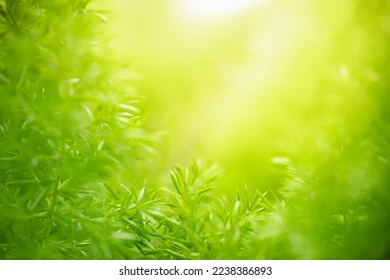
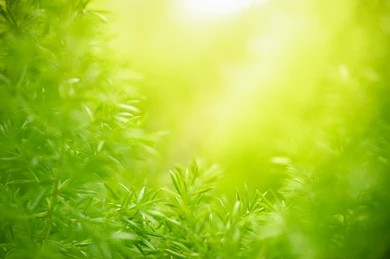
Improve mobile responsive UI

diff --git a/static/style.css b/static/style.css
@@ -1,56 +1,162 @@
+/* Google Font */
+@import url('https://fonts.googleapis.com/css2?family=Poppins:wght@300;400;500;600;700&display=swap');
+
+*{
+    margin:0;
+    padding:0;
+    box-sizing:border-box;
+    font-family:'Poppins',sans-serif;
+}
+
 body{
-    background:url("/static/farm.jpg");
+    min-height:100vh;
+    display:flex;
+    justify-content:center;
+    align-items:center;
+    padding:20px;
+
+    /* Background */
+    background:url("/static/farm.jpg") center center no-repeat;
     background-size:cover;
+    background-attachment:fixed;
+}
+
+/* Dark overlay */
+body::before{
+    content:"";
+    position:fixed;
+    inset:0;
+    background:rgba(0,0,0,0.18);
+    z-index:-1;
 }
 
 .container{
-    width:500px;
-    margin:40px auto;
-    background:white;
-    padding:30px;
-    border-radius:12px;
-    box-shadow:0 0 20px rgba(0,0,0,.2);
+    width:100%;
+    max-width:430px;
+    background:rgba(255,255,255,0.96);
+    padding:28px;
+    border-radius:18px;
+    box-shadow:0 12px 35px rgba(0,0,0,0.25);
+    backdrop-filter:blur(8px);
 }
 
 h1{
-    color:green;
     text-align:center;
+    color:#2e7d32;
+    font-size:34px;
+    margin-bottom:5px;
 }
 
 h3{
     text-align:center;
-    color:#555;
+    color:#666;
+    font-size:15px;
+    margin-bottom:25px;
+    font-weight:500;
 }
 
 label{
-    font-weight:bold;
+    display:block;
+    font-size:14px;
+    font-weight:600;
+    margin-bottom:6px;
+    color:#333;
 }
 
 input{
     width:100%;
-    padding:10px;
-    margin-top:5px;
-    margin-bottom:15px;
+    padding:13px 15px;
+    border:1px solid #d8d8d8;
+    border-radius:10px;
+    font-size:15px;
+    outline:none;
+    transition:0.3s;
+    margin-bottom:18px;
+}
+
+input:focus{
+    border-color:#2e7d32;
+    box-shadow:0 0 0 3px rgba(46,125,50,.15);
 }
 
 button{
     width:100%;
-    padding:12px;
-    background:green;
-    color:white;
+    padding:14px;
     border:none;
-    border-radius:5px;
+    border-radius:10px;
+    background:#2e7d32;
+    color:white;
     font-size:16px;
+    font-weight:600;
+    cursor:pointer;
+    transition:0.3s;
 }
 
 button:hover{
-    background:#006400;
+    background:#1b5e20;
+    transform:translateY(-2px);
 }
 
 .result{
-    margin-top:20px;
-    background:#e8ffe8;
-    padding:15px;
+    margin-top:22px;
+    padding:18px;
+    border-radius:12px;
+    background:#e8f5e9;
+    color:#1b5e20;
+    font-weight:600;
     text-align:center;
-    border-radius:8px;
+    border:1px solid #c8e6c9;
+}
+
+/* Mobile */
+@media (max-width:768px){
+
+    body{
+        padding:15px;
+        align-items:flex-start;
+    }
+
+    .container{
+        margin-top:20px;
+        padding:22px;
+        border-radius:16px;
+    }
+
+    h1{
+        font-size:30px;
+    }
+
+    h3{
+        font-size:14px;
+    }
+
+    input{
+        padding:12px;
+        font-size:16px;
+    }
+
+    button{
+        padding:13px;
+        font-size:16px;
+    }
+}
+
+/* Small Phones */
+@media (max-width:480px){
+
+    .container{
+        padding:18px;
+    }
+
+    h1{
+        font-size:28px;
+    }
+
+    h3{
+        font-size:13px;
+    }
+
+    label{
+        font-size:13px;
+    }
 }

diff --git a/templates/index.html b/templates/index.html
@@ -1,7 +1,12 @@
 <!DOCTYPE html>
-<html>
+<html lang="en">
+
 <head>
+    <meta charset="UTF-8">
+    <meta name="viewport" content="width=device-width, initial-scale=1.0">
+
     <title>OptiCrop</title>
+
     <link rel="stylesheet" href="{{ url_for('static', filename='style.css') }}">
 </head>
 
@@ -9,42 +14,78 @@
 
 <div class="container">
 
-<h1>🌱 OptiCrop</h1>
-<h3>Smart Agricultural Production Optimization Engine</h3>
+    <div class="logo">
+        <h1>🌱 OptiCrop</h1>
+        <p>Smart Agricultural Production Optimization Engine</p>
+    </div>
 
-<form action="/predict" method="POST">
+    <form action="/predict" method="POST" autocomplete="off">
 
-<label>Nitrogen (N)</label>
-<input type="number" name="N" required>
+        <label>Nitrogen (N)</label>
+        <input
+            type="number"
+            name="N"
+            placeholder="Enter Nitrogen value"
+            required>
 
-<label>Phosphorus (P)</label>
-<input type="number" name="P" required>
+        <label>Phosphorus (P)</label>
+        <input
+            type="number"
+            name="P"
+            placeholder="Enter Phosphorus value"
+            required>
 
-<label>Potassium (K)</label>
-<input type="number" name="K" required>
+        <label>Potassium (K)</label>
+        <input
+            type="number"
+            name="K"
+            placeholder="Enter Potassium value"
+            required>
 
-<label>Temperature (°C)</label>
-<input type="number" step="any" name="temperature" required>
+        <label>Temperature (°C)</label>
+        <input
+            type="number"
+            step="any"
+            name="temperature"
+            placeholder="e.g. 26.5"
+            required>
 
-<label>Humidity (%)</label>
-<input type="number" step="any" name="humidity" required>
+        <label>Humidity (%)</label>
+        <input
+            type="number"
+            step="any"
+            name="humidity"
+            placeholder="e.g. 82"
+            required>
 
-<label>Soil pH</label>
-<input type="number" step="any" name="ph" required>
+        <label>Soil pH</label>
+        <input
+            type="number"
+            step="any"
+            name="ph"
+            placeholder="e.g. 6.5"
+            required>
 
-<label>Rainfall (mm)</label>
-<input type="number" step="any" name="rainfall" required>
+        <label>Rainfall (mm)</label>
+        <input
+            type="number"
+            step="any"
+            name="rainfall"
+            placeholder="e.g. 210"
+            required>
 
-<button type="submit">Predict Crop</button>
+        <button type="submit">
+            🌾 Predict Crop
+        </button>
 
-</form>
+    </form>
 
-{% if prediction %}
-<div class="result">
-<h2>Recommended Crop</h2>
-<h1>{{ prediction }}</h1>
-</div>
-{% endif %}
+    {% if prediction %}
+    <div class="result">
+        <h2>Recommended Crop</h2>
+        <h1>{{ prediction }}</h1>
+    </div>
+    {% endif %}
 
 </div>
 